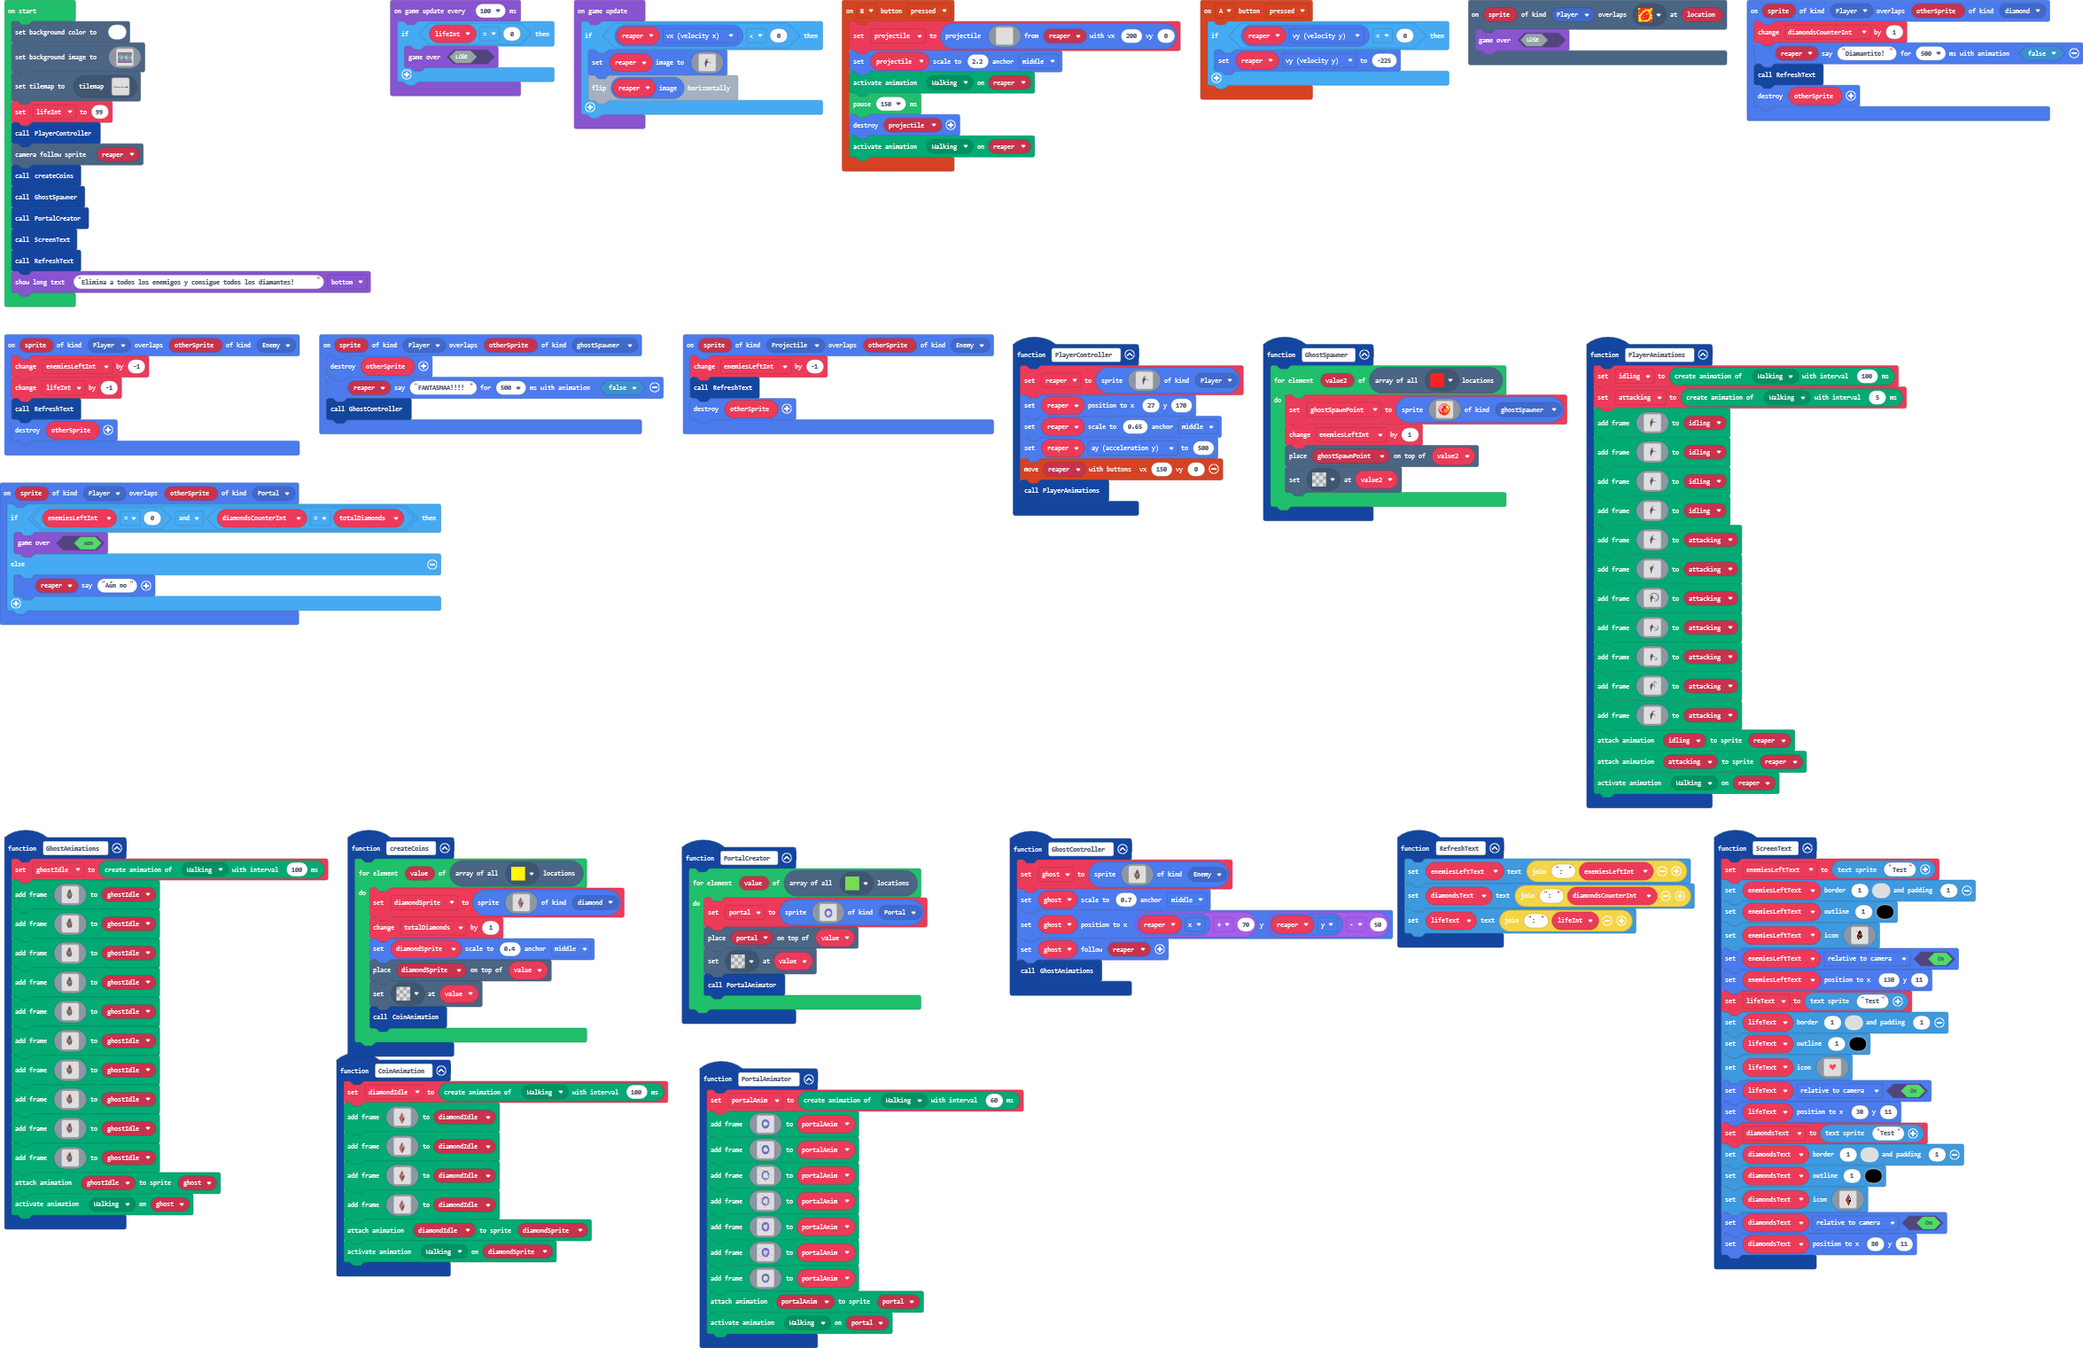
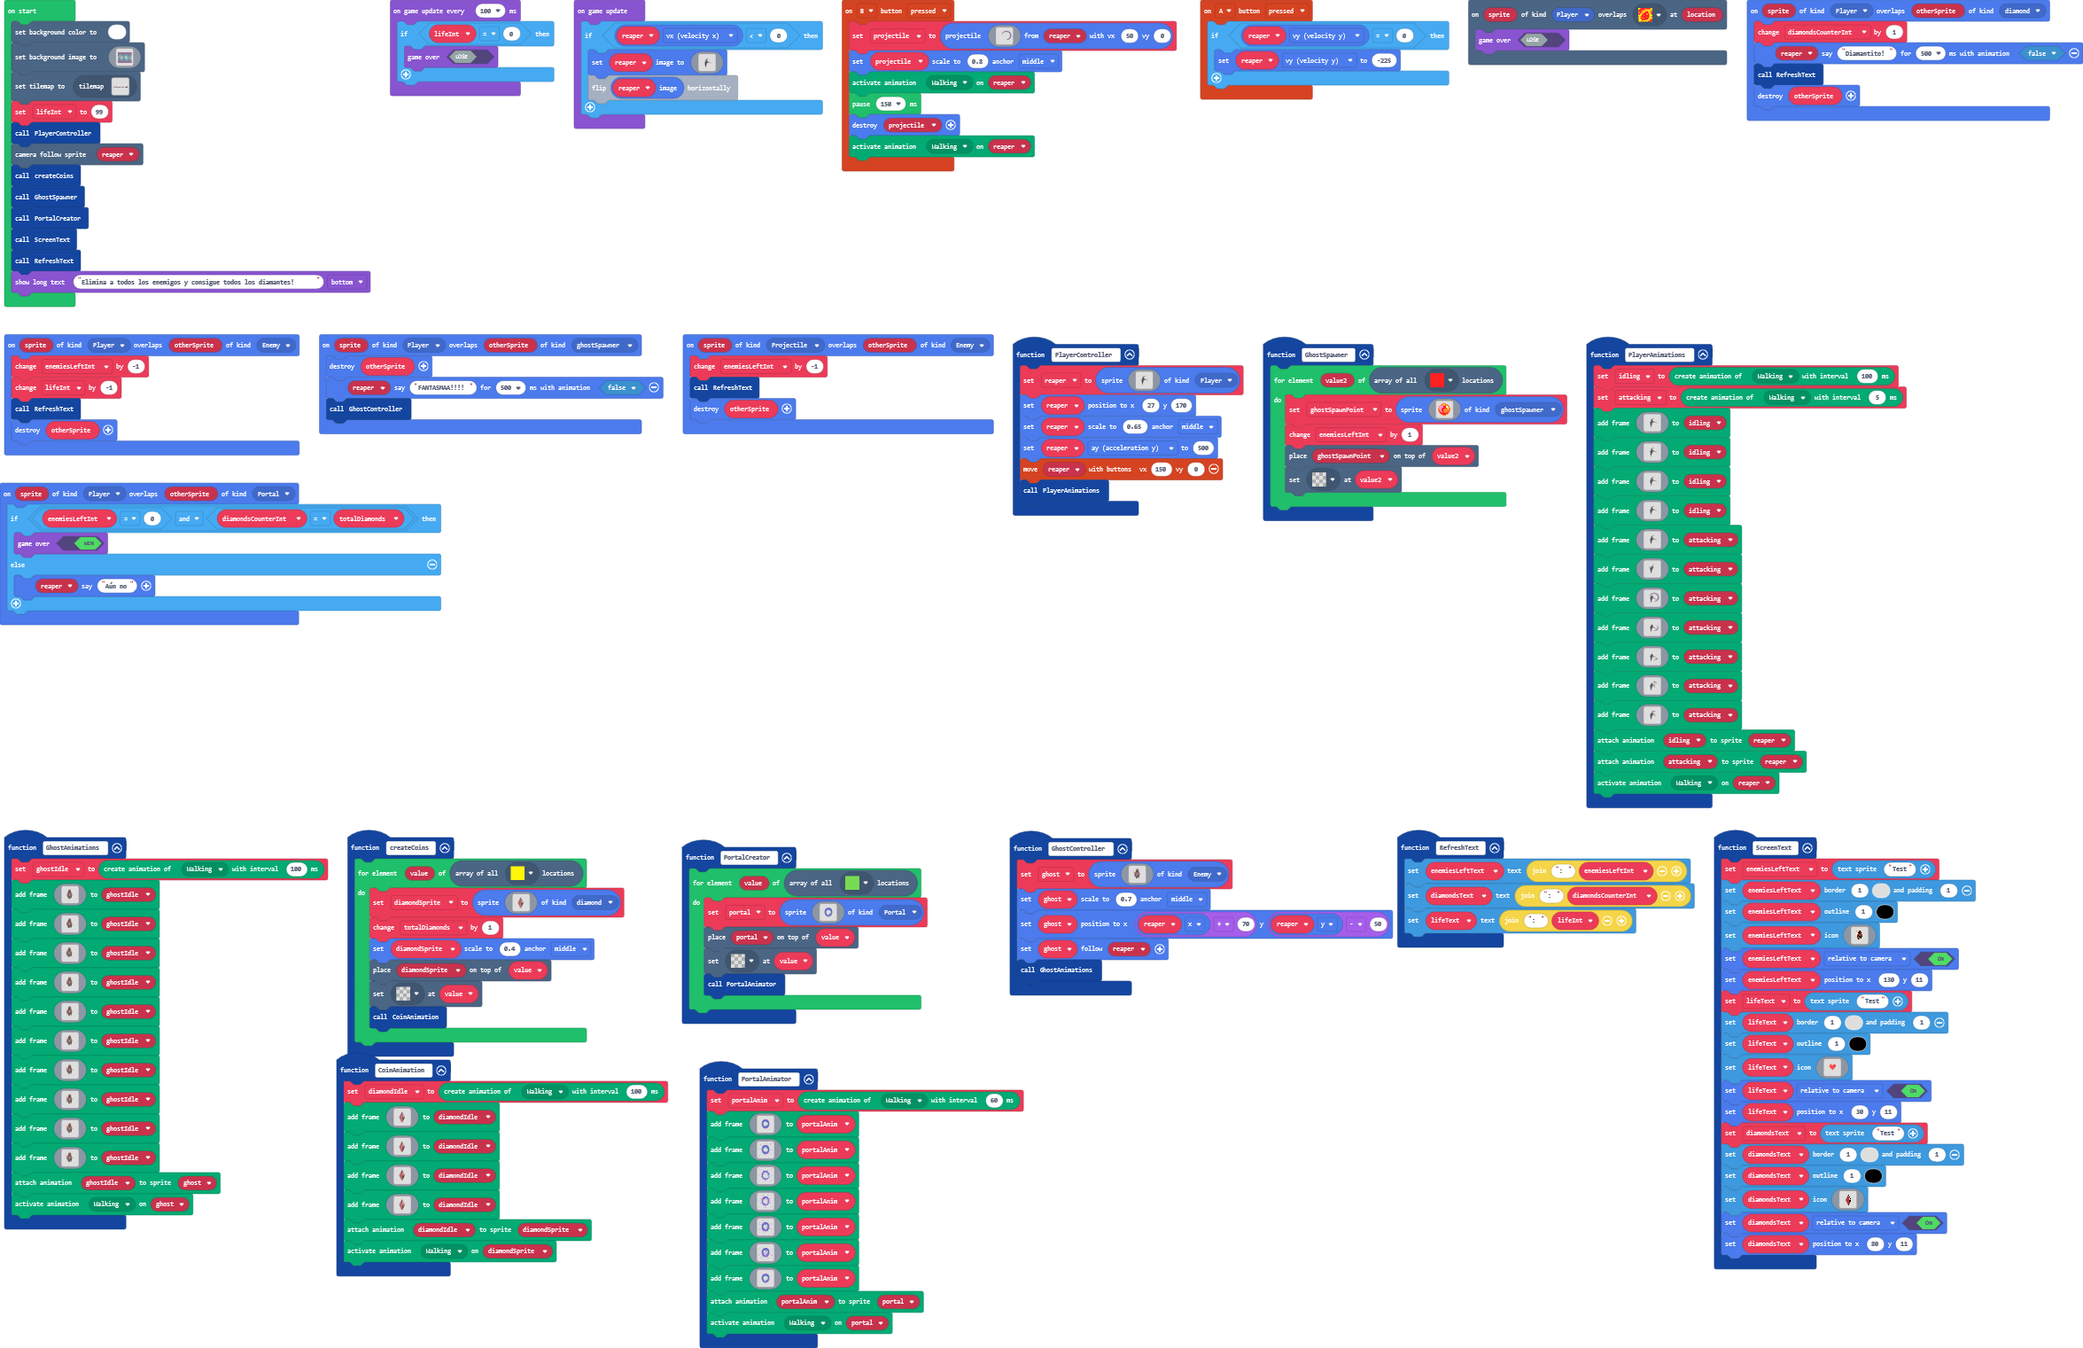
Proyectil

diff --git a/tilemap.g.ts b/tilemap.g.ts
@@ -50,65 +50,8 @@ namespace myTiles {
 . . . . . . . . . . . . . . . . 
 . . . . . . . . . . . . . . . . 
 `, [myTiles.transparency16,sprites.dungeon.floorLight2], TileScale.Sixteen);
-            case "level1":
-            case "level1":return tiles.createTilemap(hex`1000100000000000000000000000000000000000000000000000000000000000000000000000000000000000000000000000000000000000000000000000000000000000000000000000000000000000000000000000000000000000000000000000000000000000000000000000000000000000000000000000000000000000000000000000000000000000000000000000000000000000000000000000000000000000000000000000000000000000000000000000000000000000000000000000000000000000000000000000000000000000000000000000000000000000000000000000000000000000000000000000000000000000000000000000000000000000`, img`
-. . . . . . . . . . . . . . . . 
-. . . . . . . . . . . . . . . . 
-. . . . . . . . . . . . . . . . 
-. . . . . . . . . . . . . . . . 
-. . . . . . . . . . . . . . . . 
-. . . . . . . . . . . . . . . . 
-. . . . . . . . . . . . . . . . 
-. . . . . . . . . . . . . . . . 
-. . . . . . . . . . . . . . . . 
-. . . . . . . . . . . . . . . . 
-. . . . . . . . . . . . . . . . 
-. . . . . . . . . . . . . . . . 
-. . . . . . . . . . . . . . . . 
-. . . . . . . . . . . . . . . . 
-. . . . . . . . . . . . . . . . 
-. . . . . . . . . . . . . . . . 
-`, [myTiles.transparency16], TileScale.Sixteen);
-            case "level4":
-            case "level4":return tiles.createTilemap(hex`1000100000000000000000000000000000000000000000000000000000000000000000000000000000000000000000000000000000000000000000000000000000000000000000000000000000000000000000000000000000000000000000000000000000000000000000000000000000000000000000000000000000000000000000000000000000000000000000000000000000000000000000000000000000000000000000000000000000000000000000000000000000000000000000000000000000000000000000000000000000000000000000000000000000000000000000000000000000000000000000000000000000000000000000000000000000000000`, img`
-. . . . . . . . . . . . . . . . 
-. . . . . . . . . . . . . . . . 
-. . . . . . . . . . . . . . . . 
-. . . . . . . . . . . . . . . . 
-. . . . . . . . . . . . . . . . 
-. . . . . . . . . . . . . . . . 
-. . . . . . . . . . . . . . . . 
-. . . . . . . . . . . . . . . . 
-. . . . . . . . . . . . . . . . 
-. . . . . . . . . . . . . . . . 
-. . . . . . . . . . . . . . . . 
-. . . . . . . . . . . . . . . . 
-. . . . . . . . . . . . . . . . 
-. . . . . . . . . . . . . . . . 
-. . . . . . . . . . . . . . . . 
-. . . . . . . . . . . . . . . . 
-`, [myTiles.transparency16], TileScale.Sixteen);
-            case "level5":
-            case "level5":return tiles.createTilemap(hex`1000100000000000000000000000000000000000000000000000000000000000000000000000000000000000000000000000000000000000000000000000000000000000000000000000000000000000000000000000000000000000000000000000000000000000000000000000000000000000000000000000000000000000000000000000000000000000000000000000000000000000000000000000000000000000000000000000000000000000000000000000000000000000000000000000000000000000000000000000000000000000000000000000000000000000000000000000000000000000000000000000000000000000000000000000000000000000`, img`
-. . . . . . . . . . . . . . . . 
-. . . . . . . . . . . . . . . . 
-. . . . . . . . . . . . . . . . 
-. . . . . . . . . . . . . . . . 
-. . . . . . . . . . . . . . . . 
-. . . . . . . . . . . . . . . . 
-. . . . . . . . . . . . . . . . 
-. . . . . . . . . . . . . . . . 
-. . . . . . . . . . . . . . . . 
-. . . . . . . . . . . . . . . . 
-. . . . . . . . . . . . . . . . 
-. . . . . . . . . . . . . . . . 
-. . . . . . . . . . . . . . . . 
-. . . . . . . . . . . . . . . . 
-. . . . . . . . . . . . . . . . 
-. . . . . . . . . . . . . . . . 
-`, [myTiles.transparency16], TileScale.Sixteen);
             case "level":
[2 lines of base64/hex data omitted]
 ............................................................................................................................2...
 2...........................................................................................................................2...
 2...........................................................................................................................2...

diff --git a/images.g.ts b/images.g.ts
@@ -2234,37 +2234,6 @@ namespace myImages {
 ................................................................
 ................................................................
 `;
-            case "}pf=":
-            case "ReaperAttack":return img`
-................
-................
-................
-................
-................
-................
-................
-................
-................
-................
-................
-................
-................
-................
-................
-................
-................
-................
-................
-................
-................
-................
-................
-................
-................
-................
-................
-................
-`;
             case "I/szMN:ib0v[)8,xdhVq":
             case "Portal1":return img`
 ................................................................
@@ -2936,6 +2905,140 @@ aa.................aaaa8a8888....88.888aa8aaa................aaa
 . . . . 4 4 2 2 2 2 4 4 . . . . 
 . . . . . . 4 4 4 4 . . . . . . 
 . . . . . . . . . . . . . . . . 
+`;
+            case "}pf=":
+            case "ReaperAttackasdasdas":return img`
+................
+................
+................
+................
+................
+................
+................
+................
+................
+................
+................
+................
+................
+................
+................
+................
+................
+................
+................
+................
+................
+................
+................
+................
+................
+................
+................
+................
+`;
+            case "image1":
+            case "ReaperAttack":return img`
+....................................................................................................
+....................................................................................................
+....................................................................................................
+....................................................................................................
+....................................................................................................
+....................................................................................................
+....................................................................................................
+....................................................................................................
+....................................................................................................
+....................................................................................................
+....................................................................................................
+....................................................................................................
+........................................................ffffffffffff................................
+....................................................fffcccccccccccccccff............................
+................................................fffccccccccccccccccccccccff.........................
+..............................................fccccccccccccccccccccccccccccfff......................
+............................................ffcccccccccccccccccccccccccccccccfcff...................
+..........................................ffcccccccccccccccccccccccccccccccccccccf..................
+........................................fcccccccccccccccccdbbbbbbbbbbbbcccccccccccff................
+.......................................fccccccccccccc........bbbbbbbbbbbbbbccccccccff...............
+......................................fcccccccccc....................bbbbbbbbccccccccf..............
+.....................................fcccccccc............................bbbbccccccccf.............
+....................................fccccccc...............................bbbbccccccccf............
+...................................fcccccc..................................bbbbbcccccccf...........
+...................................fcccc......................................bbbbccccccf...........
+.................................fccccc.......................................bbbbccccccccf.........
+.................................fcccc..........................................bbbcccccccf.........
+................................fcccc............................................bbbcccccccf........
+...............................fcccc.............................................bbbbcccccccf.......
+...............................fccc...............................................bbbbccccccf.......
+..............................fcccc................................................bbbbccccccf......
+..............................fccc..................................................bbbccccccf......
+..............................fcc...................................................bbbccccccf......
+...............................cc....................................................bbbccccccf.....
+...............................c.....................................................bbbccccccf.....
+..............................cc.....................................................bbbccccccf.....
+..............................cc.....................................................bbbccccccf.....
+..............................c......................................................bbbcccccccf....
+..............................c......................................................bbbbccccccf....
+..............................c.......................................................bbbccccccf....
+......................................................................................bbbccccccf....
+......................................................................................bbbccccccf....
+......................................................................................bbbccccccf....
+......................................................................................bbbccccccf....
+......................................................................................bbbccccccf....
+......................................................................................bbbccccccf....
+......................................................................................bbbccccccf....
+......................................................................................bbbccccccf....
+.....................................................................................bbbbccccccf....
+.....................................................................................bbbccccccf.....
+.....................................................................................bbbccccccf.....
+....................................................................................bbbbccccccf.....
+....................................................................................bbbbccccccf.....
+....................................................................................bbbbccccccf.....
+...................................................................................bbbbccccccf......
+...................................................................................bbbbccccccf......
+..................................................................................bbbbbccccccf......
+..................................................................................bbbbccccccf.......
+................................................................................bbbbbbccccccf.......
+................................................................................bbbbbccccccf........
+................................................................................bbbbbcccccc.........
+...............................................................................bbbbbcccccff.........
+..............................................................................bbbbbccccff...........
+.............................................................................bbbbbbccccf............
+............................................................................bbbbbbccccf.............
+..........................................................................bbbbbbbcccccf.............
+.........................................................................bbbbbbbcccccf..............
+........................................................................bbbbbbccccccf...............
+......................................................................bbbbbbccccccff................
+....................................................................bbbbbbcccccccf..................
+..................................................................bbbbbcccccccfff...................
+................................................................bbbbccccccccfff.....................
+.............................................................bbbbcccccccccfff.......................
+..............................................................cfffffffffff..........................
+....................................................................................................
+....................................................................................................
+....................................................................................................
+....................................................................................................
+....................................................................................................
+....................................................................................................
+....................................................................................................
+....................................................................................................
+....................................................................................................
+....................................................................................................
+....................................................................................................
+....................................................................................................
+....................................................................................................
+....................................................................................................
+....................................................................................................
+....................................................................................................
+....................................................................................................
+....................................................................................................
+....................................................................................................
+....................................................................................................
+....................................................................................................
+....................................................................................................
+....................................................................................................
+....................................................................................................
+....................................................................................................
+....................................................................................................
 `;
         }
         return null;

diff --git a/main.ts b/main.ts
@@ -10,25 +10,8 @@ namespace SpriteKind {
     export const Portal = SpriteKind.create()
 }
 controller.B.onEvent(ControllerButtonEvent.Pressed, function () {
-    projectile = sprites.createProjectileFromSprite(img`
-        . . . . . . . . . . . . . . . . 
-        . . . . . . . . . . . . . . . . 
-        . . . . . . . . . . . . . . . . 
-        . . . . . . . . . . . . . . . . 
-        . . . . . . . . . . . . . . . . 
-        . . . . . . . . . . . . . . . . 
-        . . . . . . . . . . . . . . . . 
-        . . . . . . . . . . . . . . . . 
-        . . . . . . . . . . . . . . . . 
-        . . . . . . . . . . . . . . . . 
-        . . . . . . . . . . . . . . . . 
-        . . . . . . . . . . . . . . . . 
-        . . . . . . . . . . . . . . . . 
-        . . . . . . . . . . . . . . . . 
-        . . . . . . . . . . . . . . . . 
-        . . . . . . . . . . . . . . . . 
-        `, reaper, 200, 0)
-    projectile.setScale(2.2, ScaleAnchor.Middle)
+    projectile = sprites.createProjectileFromSprite(assets.image`ReaperAttack`, reaper, 50, 0)
+    projectile.setScale(0.8, ScaleAnchor.Middle)
     animation.setAction(reaper, ActionKind.Attacking)
     pause(150)
     sprites.destroy(projectile)
